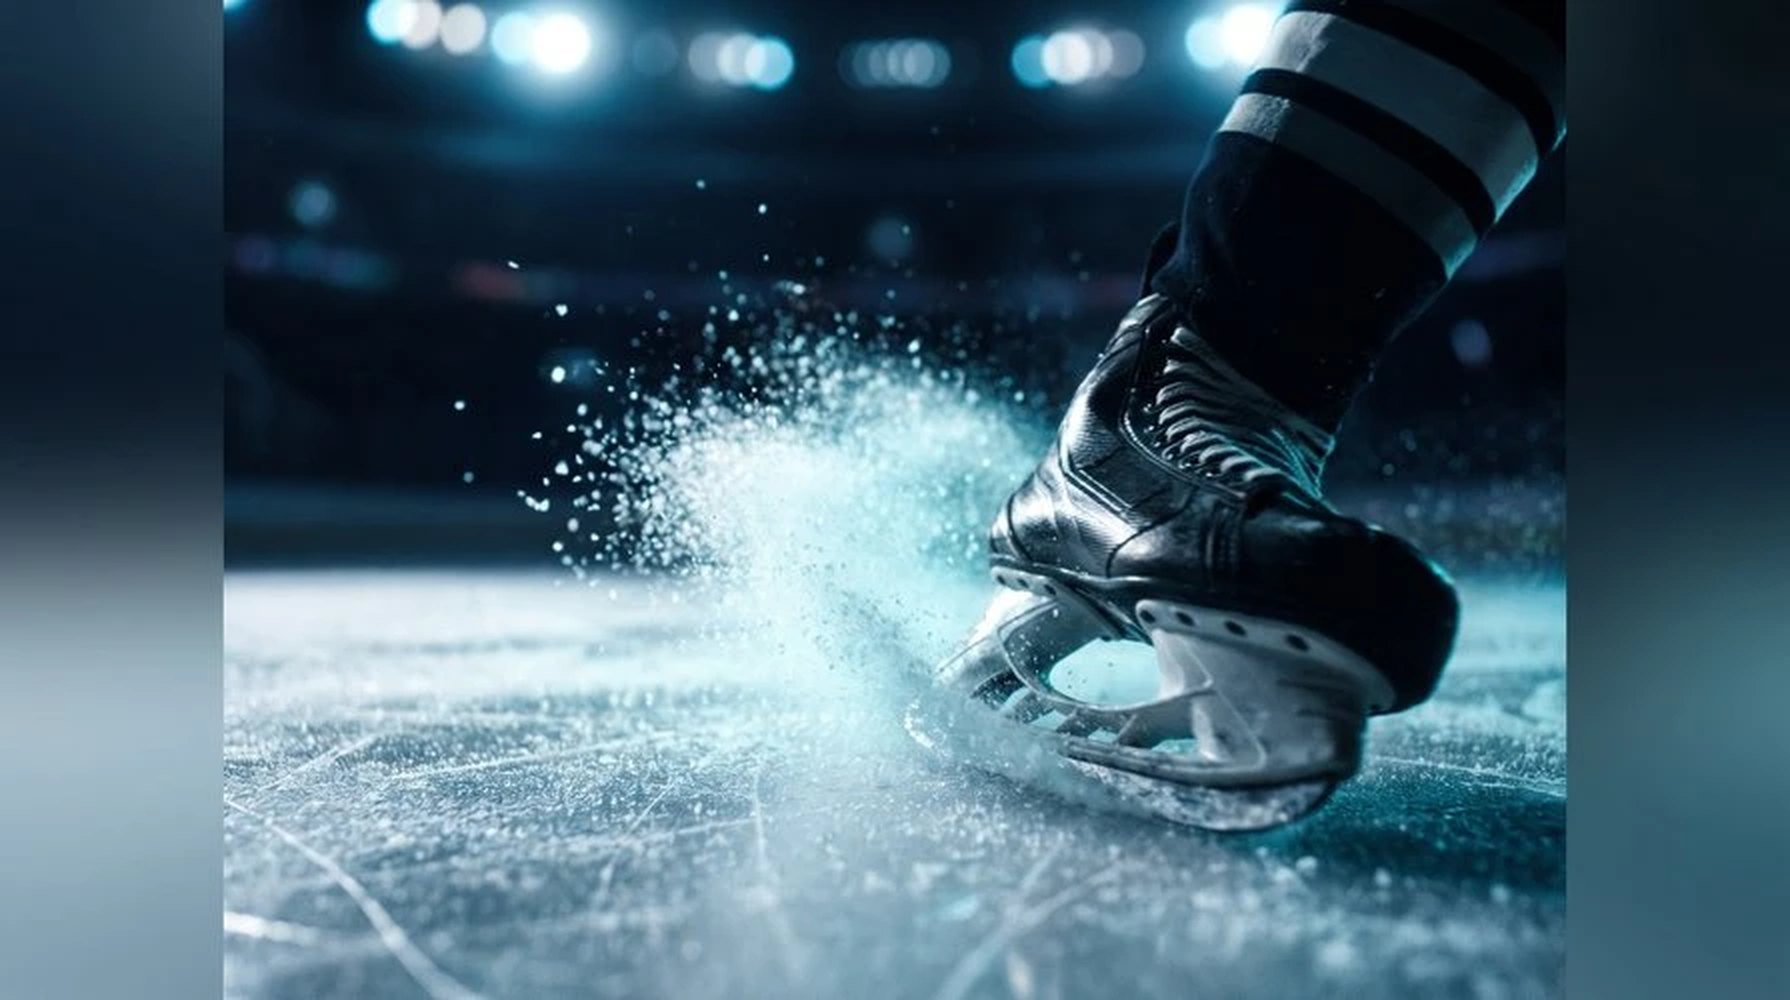
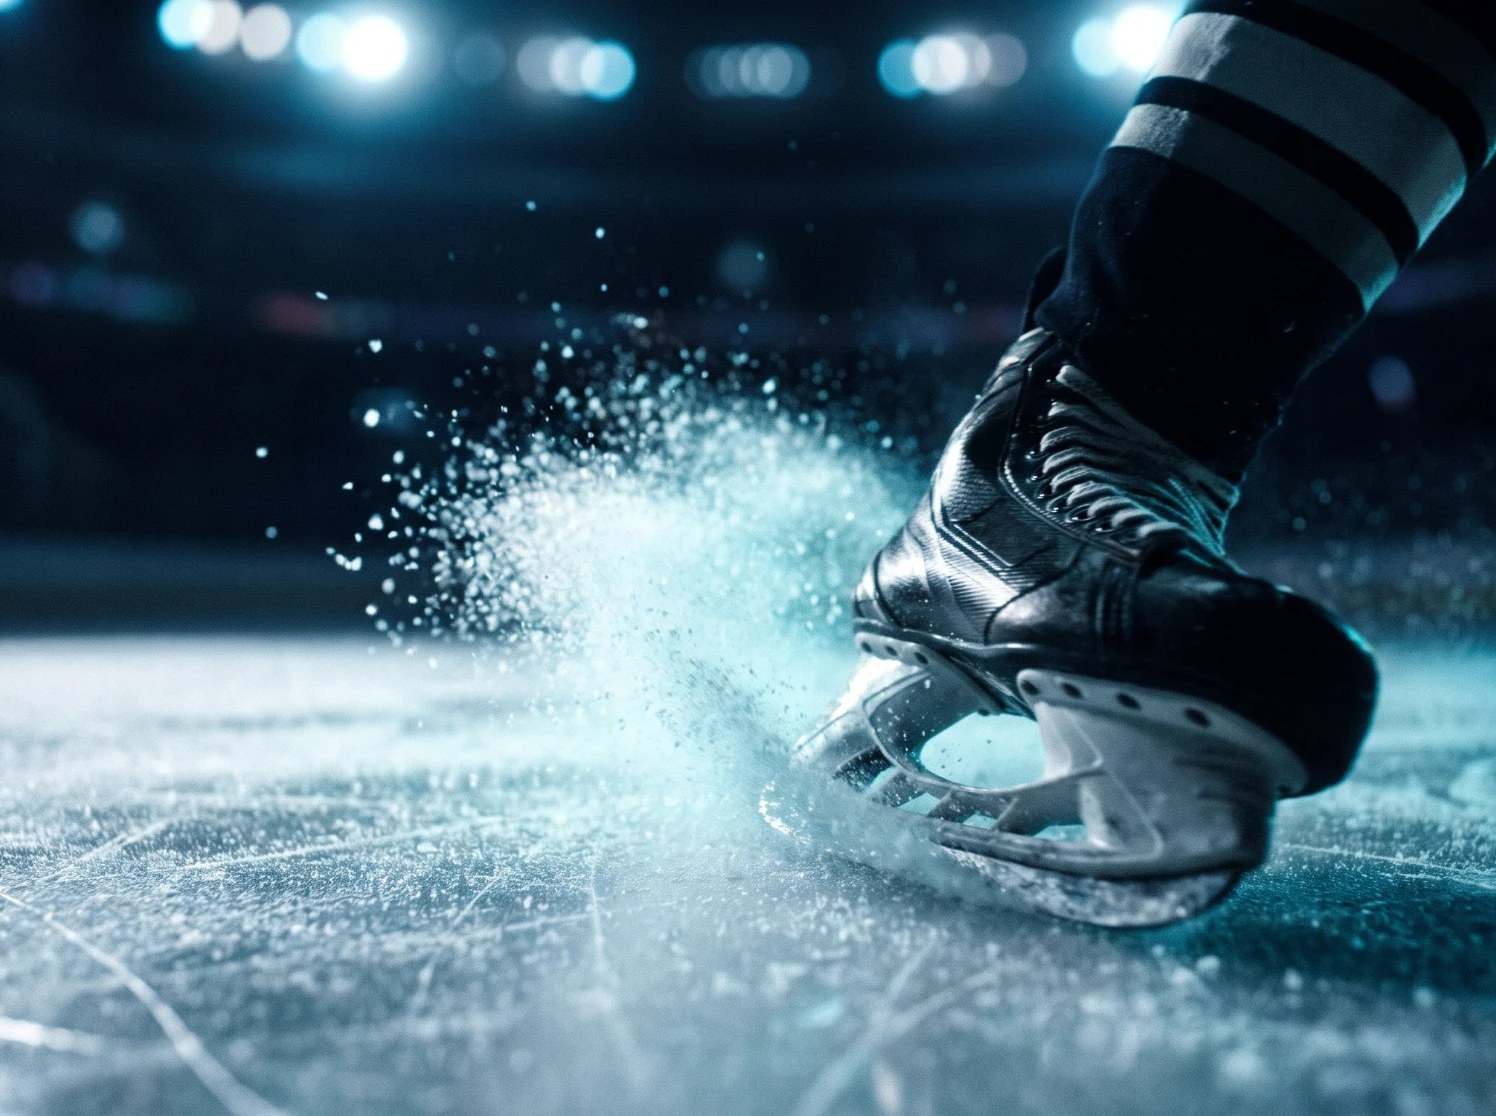
Сайт v3a (макет): «Кино» (?hv=1) — фото владельца в полном размере (2000 px), лёгкое размытие фона
Хоккей: размытые поля по бокам обрезаны. Размытие 2,5 px задано в herovid.css.

Claude-Session: https://claude.ai/code/session_01MtLSofTdpjRB7grLjoGs9k

diff --git a/team/site/v3a/assets/herovid/herovid.css b/team/site/v3a/assets/herovid/herovid.css
@@ -80,12 +80,12 @@ html[data-hv] .tgbar{display:none!important}
 
 /* вариант 1 с фото владельца (10.11): предмет сдвинут к центру, чтобы не уходил под табло; медленный наезд */
 .hv-photo{overflow:hidden}
-.hv-photo img{width:100%;height:100%;object-fit:cover;display:block;transform-origin:var(--ox,50%) var(--oy,60%);transform:translateX(var(--tx,0)) scale(var(--s,1.12));animation:hvzoom 22s ease-in-out infinite alternate}
+.hv-photo img{width:100%;height:100%;object-fit:cover;display:block;filter:blur(2.5px) saturate(1.05);transform-origin:var(--ox,50%) var(--oy,60%);transform:translateX(var(--tx,0)) scale(var(--s,1.12));animation:hvzoom 22s ease-in-out infinite alternate}
 @keyframes hvzoom{to{transform:translateX(var(--tx,0)) scale(calc(var(--s,1.12) + .07))}}
 @media (prefers-reduced-motion:reduce){.hv-photo img{animation:none}}
 html[data-hvsp="football"] .hv-photo{--tx:-7%;--s:1.16;--oy:70%}
-html[data-hvsp="hockey"] .hv-photo{--tx:-13%;--s:1.28;--oy:72%}
+html[data-hvsp="hockey"] .hv-photo{--tx:-7%;--s:1.16;--oy:74%}
 @media (max-width:980px){
   html[data-hvsp="football"] .hv-photo img{object-position:64% 50%}html[data-hvsp="football"] .hv-photo{--tx:0%;--s:1.05}
-  html[data-hvsp="hockey"] .hv-photo img{object-position:62% 50%}html[data-hvsp="hockey"] .hv-photo{--tx:0%;--s:1.05}
+  html[data-hvsp="hockey"] .hv-photo img{object-position:70% 50%}html[data-hvsp="hockey"] .hv-photo{--tx:0%;--s:1.05}
 }
